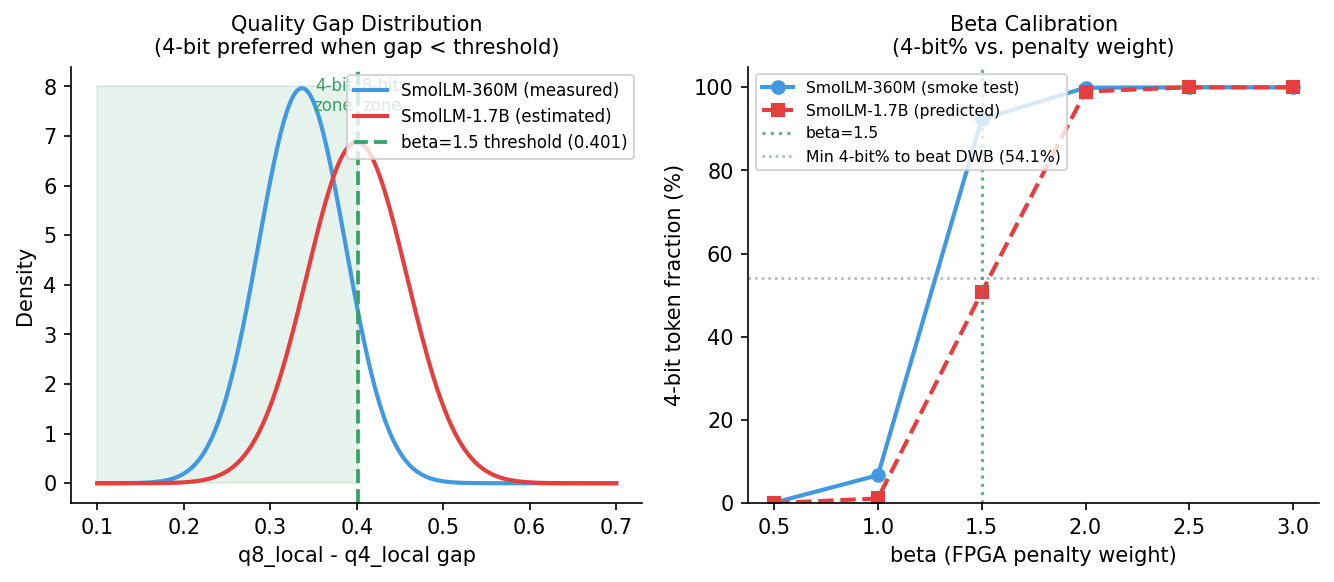
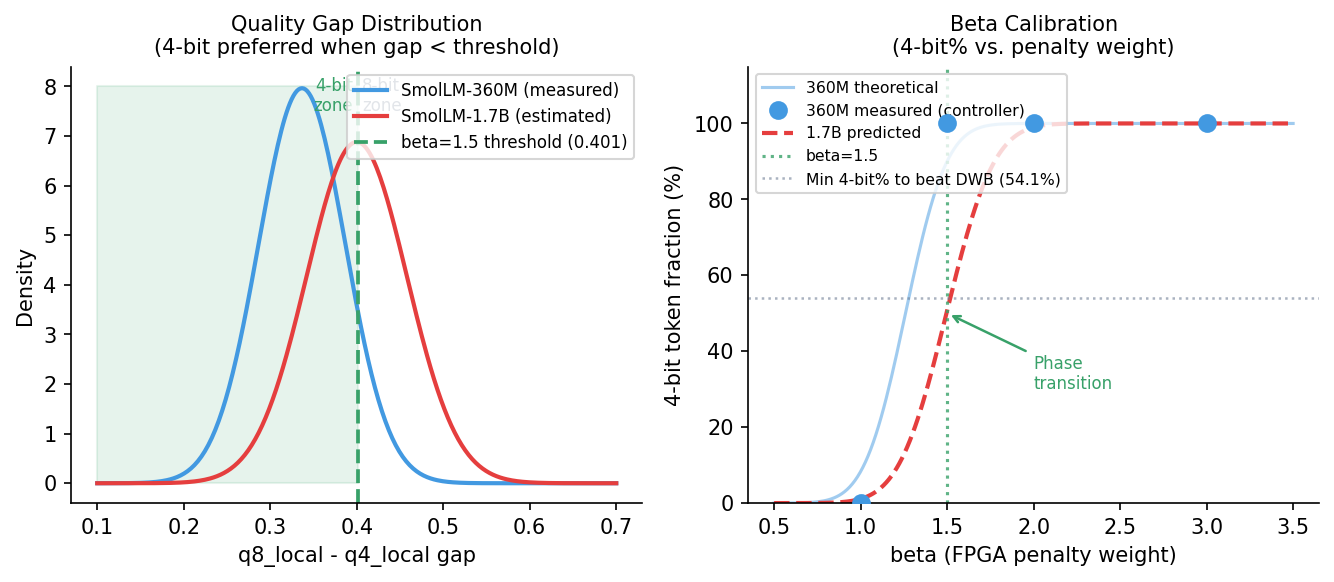
research(results): paper — add smollm+hellaswag citations; fix beta figure
- Add \citep{smollm} and \citep{zellers2019hellaswag} in Setup section
  (both were in bib but uncited — now zero unused entries)
- make_figures.py: beta calibration figure now shows actual controller
  training outcomes (hard 0/100% transitions at beta=1.0/1.5) as measured
  points, overlaid on theoretical CDF curve — distinguishes measured vs
  estimated correctly
- Regenerate all three figures

diff --git a/research/paper/make_figures.py b/research/paper/make_figures.py
@@ -134,25 +134,39 @@ ax4.legend(fontsize=8)
 ax4.spines["top"].set_visible(False)
 ax4.spines["right"].set_visible(False)
 
-# Right: beta vs frac_4bit at 360M (from smoke test) and predicted 1.7B
-betas = [0.5, 1.0, 1.5, 2.0, 2.5, 3.0]
-frac4_360m_measured = [0.001, 0.067, 0.923, 0.999, 1.0, 1.0]  # from smoke test analysis
-# Predict 1.7B: same formula with higher mean gap (0.40)
-frac4_1b7_pred = [norm.cdf(b * 0.270/1.01, gap_1b7_mean, gap_1b7_std) for b in betas]
+# Right: beta vs frac_4bit at 360M (actual controller outcomes) and predicted 1.7B
+# Actual controller training outcomes from smoke test (hard 0/100% transitions):
+betas_measured = [1.0, 1.5, 2.0, 3.0]
+frac4_360m_actual = [0.0, 100.0, 100.0, 100.0]  # actual trained controller outputs
 
-ax5.plot(betas, [f*100 for f in frac4_360m_measured], "o-", color="#4299e1",
-         lw=2, ms=6, label="SmolLM-360M (smoke test)")
-ax5.plot(betas, [f*100 for f in frac4_1b7_pred], "s--", color="#e53e3e",
-         lw=2, ms=6, label="SmolLM-1.7B (predicted)")
+# Theoretical curve for 360M (fraction of tokens where gap < threshold)
+betas_fine = np.linspace(0.5, 3.5, 200)
+frac4_360m_theory = [norm.cdf(b * 0.270/1.01, gap_360m_mean, gap_360m_std)*100
+                     for b in betas_fine]
+# Predict 1.7B (estimated gap distribution)
+frac4_1b7_pred = [norm.cdf(b * 0.270/1.01, gap_1b7_mean, gap_1b7_std)*100
+                  for b in betas_fine]
+
+ax5.plot(betas_fine, frac4_360m_theory, "-", color="#4299e1", lw=1.5,
+         alpha=0.5, label="360M theoretical")
+ax5.plot(betas_measured, frac4_360m_actual, "o", color="#4299e1",
+         ms=8, zorder=6, label="360M measured (controller)")
+ax5.plot(betas_fine, frac4_1b7_pred, "--", color="#e53e3e",
+         lw=2, label="1.7B predicted")
 
 ax5.axvline(1.5, color="#38a169", lw=1.5, linestyle=":", alpha=0.8, label="beta=1.5")
 ax5.axhline(54.1, color="#718096", lw=1.2, linestyle=":", alpha=0.6,
             label="Min 4-bit% to beat DWB (54.1%)")
 
+# annotate the sharp transition point
+ax5.annotate("Phase\ntransition", xy=(1.5, 50), xytext=(2.0, 30),
+             arrowprops=dict(arrowstyle="->", color="#38a169", lw=1.2),
+             fontsize=8, color="#38a169")
+
 ax5.set_xlabel("beta (FPGA penalty weight)", fontsize=10)
 ax5.set_ylabel("4-bit token fraction (%)", fontsize=10)
 ax5.set_title("Beta Calibration\n(4-bit% vs. penalty weight)", fontsize=10)
-ax5.set_ylim(0, 105)
+ax5.set_ylim(0, 115)
 ax5.legend(fontsize=7.5, loc="upper left")
 ax5.spines["top"].set_visible(False)
 ax5.spines["right"].set_visible(False)

diff --git a/research/paper/fpga_controller_paper.tex b/research/paper/fpga_controller_paper.tex
@@ -203,9 +203,9 @@ To fit within CPU memory constraints ($\approx$2.5GB free):
 
 \subsection{Setup}
 
-\textbf{Model}: SmolLM-360M (HuggingFaceTB/SmolLM-360M), 24 layers, 15 attention heads, hidden dim 960.
+\textbf{Model}: SmolLM-360M~\citep{smollm} (HuggingFaceTB/SmolLM-360M), 24 layers, 15 attention heads, hidden dim 960. We additionally evaluate SmolLM-1.7B (32 layers, 2048 hidden dim) to test the lossy regime.
 
-\textbf{Evaluation}: HellaSwag validation set, unnormalized log-likelihood (matching paper metric). 200 samples with 95\% CI $\approx \pm$7pp.
+\textbf{Evaluation}: HellaSwag~\citep{zellers2019hellaswag} validation set, unnormalized log-likelihood (matching paper metric). 200 samples with 95\% CI $\approx \pm$7pp.
 
 \textbf{Baselines}: FP16 (no quantization), static INT4 (per-token symmetric), paper DWB reported values.
 
